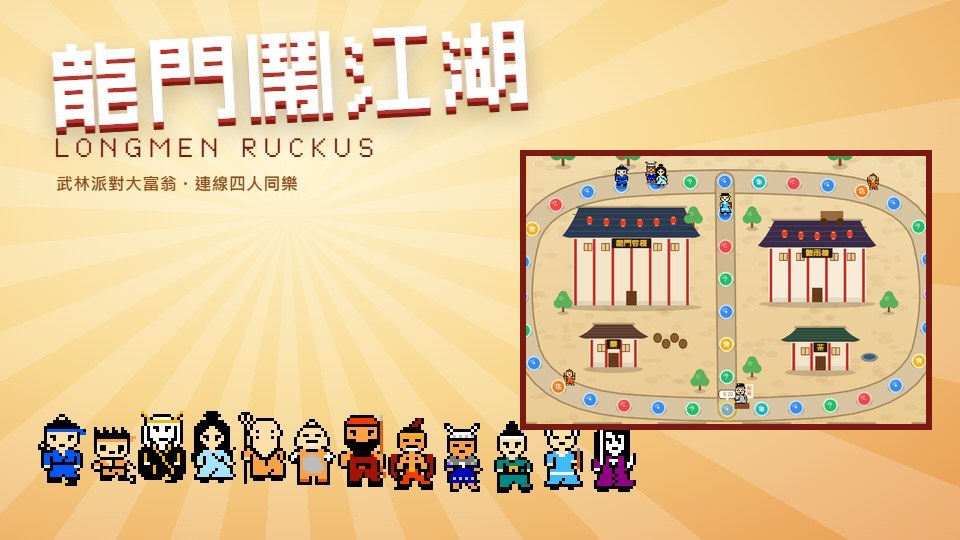
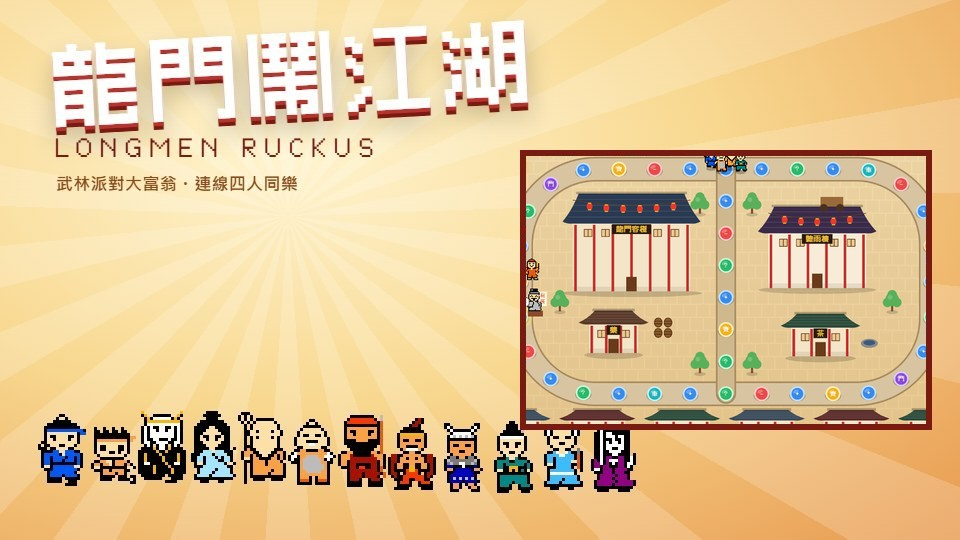
Tidy grid-true art: props on tile centres, clean borders, straight lines, pixel-snapped sprites

Changed region(s): [[0.5312, 0.2667, 0.9688, 0.8]]

diff --git a/js/boards.js b/js/boards.js
@@ -7,27 +7,27 @@ const BOARD_DEFS = {
     blurb: { zh: '熱鬧的客棧大街。中間的小巷是捷徑；黃包車（青色格）會把你拉到隨便一個車站。', en: 'A busy inn street. The alley is a shortcut; rickshaws (teal spaces) haul you to a random stand.' },
     gimName: { zh: '黃包車', en: 'Rickshaw' },
     sky: '#f6e6c4',
-    main: { pts: [[230, 190], [800, 150], [1370, 190], [1450, 500], [1370, 830], [800, 870], [230, 830], [150, 500]], n: 32,
+    main: { pts: [[800, 165], [1430, 165], [1430, 855], [170, 855], [170, 165]], r: 230, n: 32,
       types: 'bbebgrbsbebdbibrebgbebrbsbedbirb' },
-    branches: [{ id: 'alley', from: [800, 150], to: [800, 870], via: [[800, 500]], n: 6, types: 'brebie' }],
+    branches: [{ id: 'alley', from: [800, 165], to: [800, 855], via: [], n: 6, types: 'brebie' }],
   },
   mountain: {
     name: { zh: '萬妖山', en: 'Myriad Beast Mountain' },
     blurb: { zh: '山頂的吊橋每回合會升起或放下。山風（青色格）把你往前吹。', en: 'The rope bridge on the peaks rises or lowers every round. Mountain gusts (teal) blow you forward.' },
     gimName: { zh: '山風', en: 'Mountain Gust' },
     sky: '#cfe8f0',
-    main: { pts: [[220, 860], [800, 905], [1380, 860], [1475, 560], [1300, 255], [1030, 330], [985, 560], [800, 660], [615, 560], [570, 330], [300, 255], [125, 560]], n: 34,
+    main: { pts: [[800, 880], [1400, 880], [1475, 560], [1300, 255], [1030, 300], [985, 560], [800, 660], [615, 560], [570, 300], [300, 255], [125, 560], [200, 880]], r: 110, n: 34,
       types: 'bbebrbsbgbebdbibrbebgbrbesbdbebigb' },
-    branches: [{ id: 'bridge', bridge: true, from: [1030, 330], to: [570, 330], via: [[800, 300]], n: 4, types: 'bebb' }],
+    branches: [{ id: 'bridge', bridge: true, from: [1030, 300], to: [570, 300], via: [], n: 4, types: 'bebb' }],
   },
   river: {
     name: { zh: '江上畫舫', en: 'Painted Boats on the River' },
     blurb: { zh: '渡口（青色格）坐船到對岸；中間的畫舫是捷徑，但小心漩渦會把人捲回去。', en: 'Ferry docks (teal) cross the river; the painted boats in the middle are a shortcut, but whirlpools drag you back.' },
     gimName: { zh: '渡船', en: 'Ferry' },
     sky: '#d6f0e8',
-    main: { pts: [[200, 215], [800, 185], [1400, 215], [1490, 500], [1400, 790], [800, 820], [200, 790], [110, 500]], n: 32,
+    main: { pts: [[800, 190], [1470, 190], [1470, 810], [130, 810], [130, 190]], r: 240, n: 32,
       types: 'bbebgsbrbdbebigbrbebgsbrbdbebigb' },
-    branches: [{ id: 'boats', from: [800, 185], to: [800, 820], via: [[760, 400], [840, 600]], n: 6, types: 'bwebwi' }],
+    branches: [{ id: 'boats', from: [800, 190], to: [800, 810], via: [], n: 6, types: 'bwebwi' }],
   },
 };
 export const BOARD_IDS = Object.keys(BOARD_DEFS);
@@ -42,26 +42,34 @@ function along(pl, s) {
   for (const [a, b, s0, d] of pl.segs) if (s <= s0 + d + 1e-6) { const t = d ? (s - s0) / d : 0; return [a[0] + (b[0] - a[0]) * t, a[1] + (b[1] - a[1]) * t]; }
   const g = pl.segs[pl.segs.length - 1]; return [g[1][0], g[1][1]];
 }
-// smooth a polyline with Chaikin corner cutting so the paths curve
-function smooth(pts, loop, k = 3) {
-  let p = pts;
-  for (let it = 0; it < k; it++) {
-    const q = []; const n = p.length;
-    for (let i = 0; i < (loop ? n : n - 1); i++) {
-      const a = p[i], b = p[(i + 1) % n];
-      q.push([a[0] * 0.75 + b[0] * 0.25, a[1] * 0.75 + b[1] * 0.25], [a[0] * 0.25 + b[0] * 0.75, a[1] * 0.25 + b[1] * 0.75]);
-    }
-    if (!loop) { q.unshift(p[0]); q.push(p[n - 1]); }
-    p = q;
+// a polygon with every corner rounded by a true circular arc of radius r (straight runs between them), sampled finely,
+// so the spaces placed by arc length sit evenly on clean lines and arcs
+function roundPoly(pts, r, loop) {
+  const n = pts.length, out = [];
+  for (let i = 0; i < n; i++) {
+    const p = pts[i];
+    if (!loop && (i === 0 || i === n - 1)) { out.push([p[0], p[1]]); continue; }
+    const a = pts[(i - 1 + n) % n], b = pts[(i + 1) % n];
+    const ux = a[0] - p[0], uy = a[1] - p[1], vx = b[0] - p[0], vy = b[1] - p[1], lu = Math.hypot(ux, uy), lv = Math.hypot(vx, vy);
+    const th = Math.acos(Math.max(-1, Math.min(1, (ux * vx + uy * vy) / (lu * lv))));
+    if (th > Math.PI - 1e-3) { out.push([p[0], p[1]]); continue; }
+    const d = Math.min(r / Math.tan(th / 2), lu * 0.48, lv * 0.48), rr = d * Math.tan(th / 2);
+    const s1 = [p[0] + ux / lu * d, p[1] + uy / lu * d], s2 = [p[0] + vx / lv * d, p[1] + vy / lv * d];
+    const bx = ux / lu + vx / lv, by = uy / lu + vy / lv, bl = Math.hypot(bx, by), h = rr / Math.sin(th / 2);
+    const cx = p[0] + bx / bl * h, cy = p[1] + by / bl * h;
+    let a0 = Math.atan2(s1[1] - cy, s1[0] - cx), a1 = Math.atan2(s2[1] - cy, s2[0] - cx), da = a1 - a0;
+    while (da > Math.PI) da -= 2 * Math.PI; while (da < -Math.PI) da += 2 * Math.PI;
+    const steps = Math.max(4, Math.ceil(Math.abs(da) * rr / 6));
+    for (let k = 0; k <= steps; k++) { const t = a0 + da * k / steps; out.push([cx + Math.cos(t) * rr, cy + Math.sin(t) * rr]); }
   }
-  return p;
+  return out;
 }
 
 // build a board: nodes [{id, x, y, type, next:[ids], branch}] and lookup helpers
 export function buildBoard(id) {
   const def = BOARD_DEFS[id];
   const nodes = [];
-  const mainPts = smooth(def.main.pts, true);
+  const mainPts = roundPoly(def.main.pts, def.main.r || 120, true);
   const pl = polyLen(mainPts, true);
   const N = def.main.n;
   for (let i = 0; i < N; i++) { const [x, y] = along(pl, pl.L * i / N); nodes.push({ id: i, x, y, type: def.main.types[i % def.main.types.length] || 'b', next: [(i + 1) % N], branch: null }); }
@@ -69,7 +77,7 @@ export function buildBoard(id) {
   const branches = [];
   for (const br of def.branches) {
     const a = near(br.from), b = near(br.to);
-    const pts = smooth([[nodes[a].x, nodes[a].y], ...br.via, [nodes[b].x, nodes[b].y]], false, 2);
+    const pts = roundPoly([[nodes[a].x, nodes[a].y], ...br.via, [nodes[b].x, nodes[b].y]], 80, false);
     const bp = polyLen(pts, false);
     const ids = [];
     for (let k = 0; k < br.n; k++) {
@@ -163,9 +171,10 @@ function paintTown(c, B) {
   const r = rng(11);
   const g = c.createLinearGradient(0, 0, 0, 1000); g.addColorStop(0, '#f2dcae'); g.addColorStop(1, '#e8c890'); c.fillStyle = g; c.fillRect(0, 0, 1600, 1000);
   // paving
-  c.fillStyle = 'rgba(160,110,60,0.08)'; for (let i = 0; i < 600; i++) { c.beginPath(); c.ellipse(r() * 1600, r() * 1000, 10 + r() * 14, 6 + r() * 6, 0, 0, 7); c.fill(); }
+  // paving: square flagstones in straight courses (every other course shifted half a stone)
+  c.fillStyle = 'rgba(160,110,60,0.07)'; for (let y = 60; y < 1000; y += 40) for (let x = ((y / 40) % 2) * 20 - 20; x < 1600; x += 40) c.fillRect(x + 2, y + 2, 36, 36);
   // canal at the top edge
-  c.fillStyle = '#7ac8e0'; c.fillRect(0, 0, 1600, 60); c.fillStyle = 'rgba(255,255,255,0.4)'; for (let i = 0; i < 40; i++) c.fillRect(r() * 1600, 10 + r() * 40, 30, 3);
+  c.fillStyle = '#7ac8e0'; c.fillRect(0, 0, 1600, 60); c.fillStyle = 'rgba(255,255,255,0.4)'; for (let x = 20; x < 1600; x += 80) { c.fillRect(x, 18, 30, 3); c.fillRect(x + 40, 38, 30, 3); }
   c.fillStyle = '#b8a080'; c.fillRect(0, 56, 1600, 10);
   road(c, B.mainPts, true, 66, '#d8c4a0', '#a88a60');
   for (const br of B.branches) road(c, br.pts, false, 52, '#cfb88e', '#a88a60');
@@ -175,12 +184,12 @@ function paintTown(c, B) {
   roofHouse(c, 380, 640, 150, 90, { roof: '#5a3a2a', sign: '藥' });
   roofHouse(c, 1000, 650, 180, 90, { roof: '#2a4a3a', sign: '茶' });
   // the inn yard: barrels and a well
-  for (let i = 0; i < 4; i++) { c.fillStyle = '#8a5a2a'; c.beginPath(); c.ellipse(590 + i * 26, 640 + (i % 2) * 18, 12, 14, 0, 0, 7); c.fill(); c.strokeStyle = '#4a2a10'; c.lineWidth = 2; c.stroke(); }
+  for (let i = 0; i < 4; i++) { const bx = 592 + (i % 2) * 30, by = 636 + (i >> 1) * 32; c.fillStyle = '#8a5a2a'; c.beginPath(); c.ellipse(bx, by, 12, 14, 0, 0, 7); c.fill(); c.strokeStyle = '#4a2a10'; c.lineWidth = 2; c.stroke(); c.beginPath(); c.moveTo(bx - 12, by - 4); c.lineTo(bx + 12, by - 4); c.moveTo(bx - 12, by + 4); c.lineTo(bx + 12, by + 4); c.stroke(); }
   c.fillStyle = '#8a8a8a'; c.beginPath(); c.ellipse(1240, 700, 26, 14, 0, 0, 7); c.fill(); c.fillStyle = '#3a5a7a'; c.beginPath(); c.ellipse(1240, 698, 18, 8, 0, 0, 7); c.fill();
   // outside: shops along the bottom and sides, trees
   for (let i = 0; i < 6; i++) roofHouse(c, 60 + i * 260, 935, 170, 60, { roof: ['#3a4a5a', '#5a2a2a', '#2a4a3a'][i % 3], rh: 30 });
-  for (const [x, y] of [[60, 300], [60, 700], [1540, 300], [1540, 720], [500, 110], [1150, 110], [300, 110]]) tree(c, x, y, 1.1, '#4aa050');
-  for (const [x, y] of [[700, 300], [880, 300], [720, 800], [880, 760], [300, 560], [1300, 560]]) tree(c, x, y, 0.8, '#5ab05a');
+  for (const [x, y] of [[70, 330], [70, 690], [1530, 330], [1530, 690], [300, 110], [560, 110], [1040, 110], [1300, 110]]) tree(c, x, y, 1.1, '#4aa050');
+  for (const [x, y] of [[720, 300], [880, 300], [720, 790], [880, 790], [290, 600], [1310, 600]]) tree(c, x, y, 0.8, '#5ab05a');
   lanternString(c, 330, 260, 690, 260, 7); lanternString(c, 930, 300, 1230, 300, 6);
   // a cart
   c.fillStyle = '#9a6a3a'; c.fillRect(1090, 250, 70, 30); c.fillStyle = '#4a3020'; c.beginPath(); c.arc(1100, 284, 12, 0, 7); c.arc(1150, 284, 12, 0, 7); c.fill();
@@ -198,47 +207,51 @@ function paintMountain(c, B) {
   // the gorge between them
   c.fillStyle = '#4a5a50'; c.beginPath(); c.moveTo(690, 180); c.quadraticCurveTo(800, 150, 910, 180); c.lineTo(960, 520); c.quadraticCurveTo(800, 600, 640, 520); c.closePath(); c.fill();
   c.fillStyle = '#2a3a34'; c.beginPath(); c.moveTo(720, 200); c.quadraticCurveTo(800, 180, 880, 200); c.lineTo(910, 500); c.quadraticCurveTo(800, 560, 690, 500); c.closePath(); c.fill();
-  c.fillStyle = '#9adcf0'; c.fillRect(788, 160, 24, 360); c.fillStyle = 'rgba(255,255,255,0.6)'; for (let i = 0; i < 30; i++) c.fillRect(790 + r() * 18, 160 + r() * 350, 3, 14);
+  c.fillStyle = '#9adcf0'; c.fillRect(788, 160, 24, 360); c.fillStyle = 'rgba(255,255,255,0.6)'; for (let y = 170; y < 510; y += 24) { c.fillRect(792, y, 3, 14); c.fillRect(805, y + 12, 3, 14); }
   c.fillStyle = 'rgba(255,255,255,0.7)'; c.beginPath(); c.ellipse(800, 525, 60, 18, 0, 0, 7); c.fill();
   road(c, B.mainPts, true, 60, '#d8c49a', '#9a8458');
   // temple at the right peak
   roofHouse(c, 1180, 330, 160, 80, { roof: '#7a2a2a', wall: '#f0e0c0', sign: '萬妖', rh: 50 });
   roofHouse(c, 220, 345, 130, 70, { roof: '#2a3a4a', wall: '#f0e8d8', rh: 44 });
-  for (let i = 0; i < 46; i++) { const x = r() * 1600, y = 300 + r() * 680; if (Math.abs(x - 800) < 200 && y < 620) continue; pine(c, x, y, 0.7 + r() * 0.5); }
+  // pines on a staggered lattice, kept off the path and the gorge; two sizes, back rows smaller
+  const offPath = (x, y, d) => { for (let i = 0; i < B.mainPts.length; i++) { const a = B.mainPts[i], b = B.mainPts[(i + 1) % B.mainPts.length], dx = b[0] - a[0], dy = b[1] - a[1], L = dx * dx + dy * dy || 1, k = Math.max(0, Math.min(1, ((x - a[0]) * dx + (y - a[1]) * dy) / L)); if (Math.hypot(x - a[0] - dx * k, y - a[1] - dy * k) < d) return false; } return true; };
+  for (let row = 0, y = 330; y < 990; y += 70, row++) for (let x = 60 + (row % 2) * 70; x < 1600; x += 140) { if (Math.abs(x - 800) < 210 && y < 640) continue; if (!offPath(x, y, 70)) continue; if (Math.abs(x - 1260) < 110 && y < 440) continue; if (Math.abs(x - 285) < 95 && y < 440) continue; pine(c, x, y, y < 560 ? 0.8 : 1.0); }
   // rocks
-  for (let i = 0; i < 18; i++) { const x = r() * 1600, y = 580 + r() * 400; c.fillStyle = '#8a8a80'; c.beginPath(); c.ellipse(x, y, 14 + r() * 10, 9 + r() * 5, 0, 0, 7); c.fill(); c.fillStyle = 'rgba(255,255,255,0.25)'; c.beginPath(); c.ellipse(x - 4, y - 3, 6, 3, 0, 0, 7); c.fill(); }
+  for (let row = 0, y = 615; y < 990; y += 70, row++) for (let x = 130 + (row % 2) * 70; x < 1600; x += 140) { if (!offPath(x, y, 60) || (row + Math.round(x / 140)) % 3) continue; c.fillStyle = '#8a8a80'; c.beginPath(); c.ellipse(x, y, 18, 11, 0, 0, 7); c.fill(); c.fillStyle = 'rgba(255,255,255,0.25)'; c.beginPath(); c.ellipse(x - 4, y - 3, 7, 3, 0, 0, 7); c.fill(); }
   // mist
-  c.fillStyle = 'rgba(255,255,255,0.35)'; for (let i = 0; i < 6; i++) { c.beginPath(); c.ellipse(r() * 1600, 200 + r() * 200, 160, 24, 0, 0, 7); c.fill(); }
+  c.fillStyle = 'rgba(255,255,255,0.35)'; for (const [x, y] of [[180, 210], [560, 250], [1040, 250], [1420, 210]]) { c.beginPath(); c.ellipse(x, y, 160, 22, 0, 0, 7); c.fill(); }
 }
 
 function paintRiver(c, B) {
   const r = rng(37);
   c.fillStyle = '#9ad48a'; c.fillRect(0, 0, 1600, 1000);
-  c.fillStyle = 'rgba(60,140,60,0.15)'; for (let i = 0; i < 400; i++) c.fillRect(r() * 1600, r() * 1000, 3, 7);
+  c.fillStyle = 'rgba(60,140,60,0.15)'; for (let y = 10; y < 1000; y += 40) for (let x = ((y / 40) % 2) * 25; x < 1600; x += 50) c.fillRect(x, y, 3, 7);
   // the river
   const g = c.createLinearGradient(0, 330, 0, 670); g.addColorStop(0, '#5ab0e0'); g.addColorStop(0.5, '#3a90d0'); g.addColorStop(1, '#5ab0e0');
-  c.fillStyle = g; c.beginPath(); c.moveTo(0, 330); for (let x = 0; x <= 1600; x += 50) c.lineTo(x, 330 + Math.sin(x * 0.01) * 18); c.lineTo(1600, 670); for (let x = 1600; x >= 0; x -= 50) c.lineTo(x, 670 + Math.sin(x * 0.012 + 2) * 18); c.fill();
-  c.strokeStyle = 'rgba(255,255,255,0.5)'; c.lineWidth = 3; for (let i = 0; i < 60; i++) { const x = r() * 1600, y = 360 + r() * 280; c.beginPath(); c.moveTo(x, y); c.quadraticCurveTo(x + 12, y - 6, x + 24, y); c.stroke(); }
+  c.fillStyle = g; c.fillRect(0, 330, 1600, 340);
+  // stone embankments: straight edges with even blocks
+  for (const y of [322, 670]) { c.fillStyle = '#b8a888'; c.fillRect(0, y, 1600, 8); c.fillStyle = 'rgba(0,0,0,0.15)'; for (let x = 0; x < 1600; x += 40) c.fillRect(x, y, 2, 8); }
+  c.strokeStyle = 'rgba(255,255,255,0.5)'; c.lineWidth = 3; for (let row = 0, y = 370; y < 650; y += 56, row++) for (let x = 40 + (row % 2) * 60; x < 1600; x += 120) { c.beginPath(); c.moveTo(x, y); c.quadraticCurveTo(x + 12, y - 6, x + 24, y); c.stroke(); }
   // lotus
-  for (let i = 0; i < 26; i++) { const x = r() * 1600, y = 360 + r() * 280; if (Math.abs(x - 800) < 120) continue; c.fillStyle = '#4aa860'; c.beginPath(); c.arc(x, y, 10, 0.3, 6.0); c.lineTo(x, y); c.fill(); if (r() < 0.4) { c.fillStyle = '#f8a0c0'; c.beginPath(); c.arc(x + 3, y - 3, 5, 0, 7); c.fill(); } }
+  for (let row = 0, y = 398; y < 650; y += 112, row++) for (let x = 300 + (row % 2) * 120; x < 1340; x += 240) { if (Math.abs(x - 800) < 150) continue; c.fillStyle = '#4aa860'; c.beginPath(); c.arc(x, y, 10, 0.3, 6.0); c.lineTo(x, y); c.fill(); if ((x / 120 + row) % 2 < 1) { c.fillStyle = '#f8a0c0'; c.beginPath(); c.arc(x + 3, y - 3, 5, 0, 7); c.fill(); } }
   // arched bridges at both ends
   for (const x of [110, 1490]) { c.fillStyle = '#c8b090'; c.fillRect(x - 46, 330, 92, 340); c.fillStyle = '#a89070'; c.fillRect(x - 46, 330, 8, 340); c.fillRect(x + 38, 330, 8, 340); for (let y = 345; y < 670; y += 30) { c.fillStyle = 'rgba(0,0,0,0.08)'; c.fillRect(x - 38, y, 76, 3); } }
   road(c, B.mainPts, true, 60, '#e0d0a8', '#a8946a');
   // painted boats in the middle carry the shortcut
-  for (const [x, y] of [[790, 420], [810, 590]]) {
+  for (const [x, y] of [[800, 420], [800, 590]]) {
     c.fillStyle = '#7a3a1a'; c.beginPath(); c.moveTo(x - 110, y); c.quadraticCurveTo(x, y + 50, x + 110, y); c.lineTo(x + 90, y + 20); c.quadraticCurveTo(x, y + 52, x - 90, y + 20); c.fill();
     c.fillStyle = '#c0402a'; c.fillRect(x - 60, y - 52, 120, 50); c.fillStyle = '#f0c040'; c.fillRect(x - 60, y - 52, 120, 6);
     c.fillStyle = '#2a3a52'; c.beginPath(); c.moveTo(x - 76, y - 50); c.quadraticCurveTo(x, y - 86, x + 76, y - 50); c.fill();
   }
   for (const br of B.branches) road(c, br.pts, false, 46, 'rgba(200,150,90,0.85)', 'rgba(120,70,30,0.85)');
   // willows and houses on the banks
-  for (let i = 0; i < 14; i++) { const x = 60 + i * 115 + r() * 30; tree(c, x, 110 + r() * 40, 0.9, '#6ab858'); }
-  for (let i = 0; i < 14; i++) { const x = 60 + i * 115 + r() * 30; tree(c, x, 920 + r() * 40, 0.9, '#6ab858'); }
+  for (let i = 0; i < 14; i++) { const x = 75 + i * 115; if (x > 950 && x < 1220) continue; tree(c, x, 120, 0.9, '#6ab858'); }
+  for (let i = 0; i < 14; i++) { const x = 75 + i * 115; if ((x > 260 && x < 500) || (x > 1110 && x < 1370)) continue; tree(c, x, 950, 0.9, '#6ab858'); }
   roofHouse(c, 300, 870, 160, 70, { roof: '#2a3a52', sign: '渡', rh: 40 });
   roofHouse(c, 1150, 880, 180, 70, { roof: '#5a2a2a', sign: '酒', rh: 40 });
   roofHouse(c, 1000, 60, 170, 70, { roof: '#2a4a3a', sign: '漁', rh: 40 });
   // small drifting sampans (decor)
-  for (let i = 0; i < 4; i++) { const x = 250 + i * 330, y = 470 + (i % 2) * 70; if (Math.abs(x - 800) < 160) continue; c.fillStyle = '#8a5a2a'; c.beginPath(); c.moveTo(x - 40, y); c.quadraticCurveTo(x, y + 18, x + 40, y); c.lineTo(x + 30, y + 8); c.lineTo(x - 30, y + 8); c.fill(); c.fillStyle = '#d8c090'; c.beginPath(); c.arc(x, y - 4, 14, Math.PI, 0); c.fill(); }
+  for (let i = 0; i < 4; i++) { const x = 250 + i * 330, y = 470 + (i % 2) * 80; if (Math.abs(x - 800) < 160) continue; c.fillStyle = '#8a5a2a'; c.beginPath(); c.moveTo(x - 40, y); c.quadraticCurveTo(x, y + 18, x + 40, y); c.lineTo(x + 30, y + 8); c.lineTo(x - 30, y + 8); c.fill(); c.fillStyle = '#d8c090'; c.beginPath(); c.arc(x, y - 4, 14, Math.PI, 0); c.fill(); }
 }
 
 export function paintBoard(B) {

diff --git a/js/view.js b/js/view.js
@@ -1,9 +1,9 @@
 // What every player sees: the board (2D canvas), HUD cards, prompts, minigames and the finale.
 // It only reacts to messages from the host ({t:'state'|'cue'|'ask'|'mg'|'mgs'|'final'}), so all screens stay in step.
-import { L, LANG, CHAR, CHARS, NPC, ITEMS, SPACES, UI, MANUAL_PRICE, pick } from './data.js?v=1';
-import { buildBoard, paintBoard, WORLD } from './boards.js?v=1';
-import { MINIGAMES } from './minigames.js?v=1';
-import { ATLAS } from './atlas.js?v=1';
+import { L, LANG, CHAR, CHARS, NPC, ITEMS, SPACES, UI, MANUAL_PRICE, pick } from './data.js?v=2';
+import { buildBoard, paintBoard, WORLD } from './boards.js?v=2';
+import { MINIGAMES } from './minigames.js?v=2';
+import { ATLAS } from './atlas.js?v=2';
 
 const $ = (s) => document.querySelector(s);
 const esc = (s) => String(s).replace(/[&<>"]/g, (c) => ({ '&': '&amp;', '<': '&lt;', '>': '&gt;', '"': '&quot;' })[c]);
@@ -32,15 +32,28 @@ export function makeArt(view) {
       let anim = o.side ? 2 : o.walk ? 1 : 0; let fr = o.frame ?? ((o.walk || o.side) ? Math.floor(now() * 6) % 2 : Math.floor(now() * 2) % 2);
       if (o.side && !o.walk && o.frame == null) fr = 1;
       c.save(); if (o.alpha != null) c.globalAlpha *= o.alpha; if (o.blink && Math.floor(now() * 12) % 2) c.globalAlpha *= 0.35;
-      c.translate(x, y); if (o.rot) { c.translate(0, -12 * s); c.rotate(o.rot); c.translate(0, 12 * s); }
-      if (o.flip) c.scale(-1, 1);
       c.imageSmoothingEnabled = false;
-      c.drawImage(IMG, 52 + fr * 16, row * 76 + anim * 24, 16, 24, -8 * s, -24 * s, 16 * s, 24 * s);
+      const T = c.getTransform();
+      if (!o.rot && !T.b && !T.c) {
+        // whole screen pixels per sprite pixel, feet on a whole screen pixel (no half-pixel smear)
+        const P = Math.max(1, Math.round(T.a * s)), X = Math.round(T.a * x + T.e), Y = Math.round(T.d * y + T.f);
+        c.setTransform(o.flip ? -1 : 1, 0, 0, 1, X, Y);
+        c.drawImage(IMG, 52 + fr * 16, row * 76 + anim * 24, 16, 24, -8 * P, -24 * P, 16 * P, 24 * P);
+      } else {
+        c.translate(x, y); if (o.rot) { c.translate(0, -12 * s); c.rotate(o.rot); c.translate(0, 12 * s); }
+        if (o.flip) c.scale(-1, 1);
+        c.drawImage(IMG, 52 + fr * 16, row * 76 + anim * 24, 16, 24, -8 * s, -24 * s, 16 * s, 24 * s);
+      }
       c.restore();
     },
     spr(c, i, x, y, s, o) { A.sprId(c, A.cid(i), x, y, s, o); },
     npc(c, id, x, y, s, o) { A.sprId(c, id, x, y, s, o); },
-    port(c, i, x, y, h) { const id = A.cid(i); const row = ATLAS[id]; if (row == null || !IMG.complete) return; c.imageSmoothingEnabled = false; c.drawImage(IMG, 0, row * 76, 48, 56, x, y, 48 * h / 56, h); },
+    port(c, i, x, y, h) {
+      const id = A.cid(i); const row = ATLAS[id]; if (row == null || !IMG.complete) return; c.imageSmoothingEnabled = false;
+      const T = c.getTransform();
+      if (!T.b && !T.c) { const P = Math.max(1, Math.round(T.a * h / 56)); c.save(); c.setTransform(1, 0, 0, 1, 0, 0); c.drawImage(IMG, 0, row * 76, 48, 56, Math.round(T.a * x + T.e + (T.a * 48 * h / 56 - 48 * P) / 2), Math.round(T.d * y + T.f + T.d * h - 56 * P), 48 * P, 56 * P); c.restore(); }
+      else c.drawImage(IMG, 0, row * 76, 48, 56, x, y, 48 * h / 56, h);
+    },
     txt(c, s, x, y, o = {}) {
       c.save(); c.font = `${o.size || 16}px "Cubic 11", "PingFang TC", "Microsoft JhengHei", sans-serif`; c.textAlign = o.align || 'center'; c.textBaseline = 'middle';
       if (o.bubble) { const w = c.measureText(s).width + 16, h = (o.size || 16) + 12; c.fillStyle = '#fff'; c.strokeStyle = '#3a2a1a'; c.lineWidth = 2; rr(c, x - w / 2, y - h / 2, w, h, 8); c.fill(); c.stroke(); c.beginPath(); c.moveTo(x - 5, y + h / 2 - 1); c.lineTo(x, y + h / 2 + 7); c.lineTo(x + 5, y + h / 2 - 1); c.fill(); }

diff --git a/js/main.js b/js/main.js
@@ -1,13 +1,13 @@
 // 龍門鬧江湖 Longmen Ruckus - menus, lobby, rooms and the glue between the host, the network and the view.
-import { L, LANG, CHARS, CHAR, UI } from './data.js?v=1';
-import { BOARD_IDS, boardName, boardBlurb, buildBoard, paintBoard } from './boards.js?v=1';
-import { SPACES } from './data.js?v=1';
-import { MINIGAMES, MG_IDS } from './minigames.js?v=1';
-import { HostNet, ClientNet, makeCode } from './net.js?v=1';
-import { Host } from './host.js?v=1';
-import { View, PCOL, portraitHTML, spriteHTML } from './view.js?v=1';
-import { Input } from './input.js?v=1';
-import { Sound } from './audio.js?v=1';
+import { L, LANG, CHARS, CHAR, UI } from './data.js?v=2';
+import { BOARD_IDS, boardName, boardBlurb, buildBoard, paintBoard } from './boards.js?v=2';
+import { SPACES } from './data.js?v=2';
+import { MINIGAMES, MG_IDS } from './minigames.js?v=2';
+import { HostNet, ClientNet, makeCode } from './net.js?v=2';
+import { Host } from './host.js?v=2';
+import { View, PCOL, portraitHTML, spriteHTML } from './view.js?v=2';
+import { Input } from './input.js?v=2';
+import { Sound } from './audio.js?v=2';
 
 const $ = (s) => document.querySelector(s);
 const esc = (s) => String(s).replace(/[&<>"]/g, (c) => ({ '&': '&amp;', '<': '&lt;', '>': '&gt;', '"': '&quot;' })[c]);

diff --git a/js/host.js b/js/host.js
@@ -1,8 +1,8 @@
 // The host runs the whole party: board state, dice, events, items, minigames and payouts.
 // Everyone (the host's own screen included) only sees what it emits: {t:'state'} snapshots and {t:'cue'} animations.
-import { CHAR, ITEMS, ITEM_IDS, MANUAL_PRICE, AWARDS, pick } from './data.js?v=1';
-import { buildBoard, distTo, nextOf } from './boards.js?v=1';
-import { MINIGAMES, MG_IDS } from './minigames.js?v=1';
+import { CHAR, ITEMS, ITEM_IDS, MANUAL_PRICE, AWARDS, pick } from './data.js?v=2';
+import { buildBoard, distTo, nextOf } from './boards.js?v=2';
+import { MINIGAMES, MG_IDS } from './minigames.js?v=2';
 
 const R = Math.random;
 const d6 = () => 1 + Math.floor(R() * 6);

diff --git a/index.html b/index.html
@@ -11,7 +11,7 @@
 <link rel="manifest" href="manifest.webmanifest">
 <link rel="icon" href="icon-192.png">
 <link rel="apple-touch-icon" href="apple-touch-icon.png">
-<link rel="stylesheet" href="style.css?v=1">
+<link rel="stylesheet" href="style.css?v=2">
 <script src="https://cdn.jsdelivr.net/npm/peerjs@1.5.4/dist/peerjs.min.js"></script>
 </head>
 <body>
@@ -71,6 +71,6 @@
 
 <div id="howto"><div class="panel"><h2 data-t="howto"></h2><p id="howto-text"></p></div></div>
 <div id="toasts"></div>
-<script type="module" src="js/main.js?v=1"></script>
+<script type="module" src="js/main.js?v=2"></script>
 </body>
 </html>
